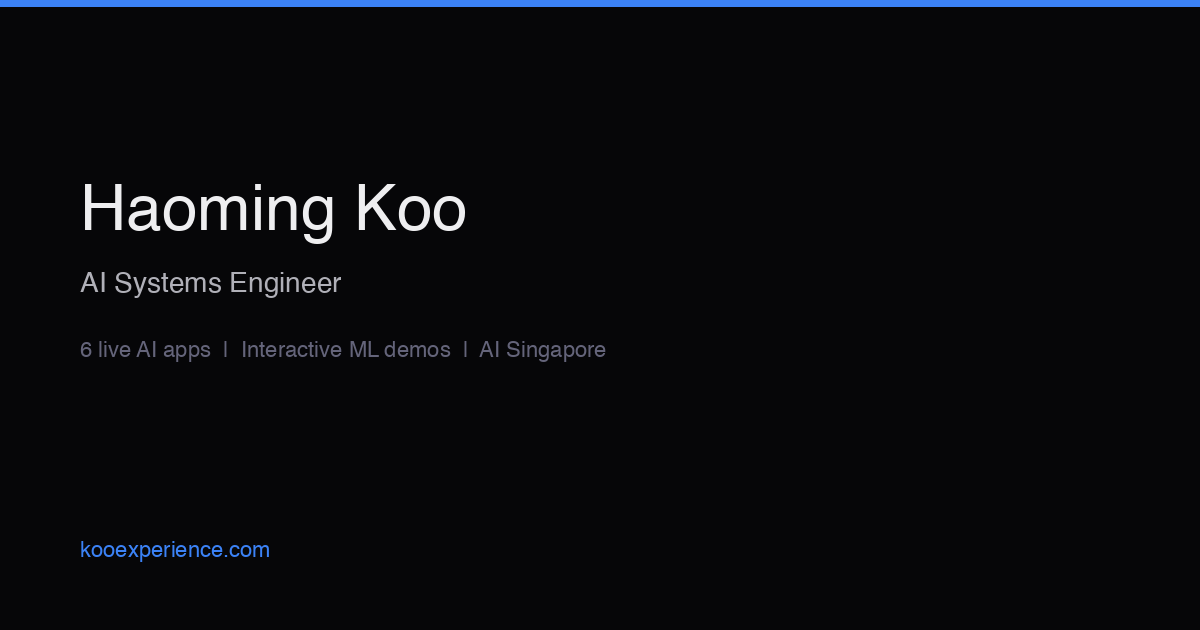
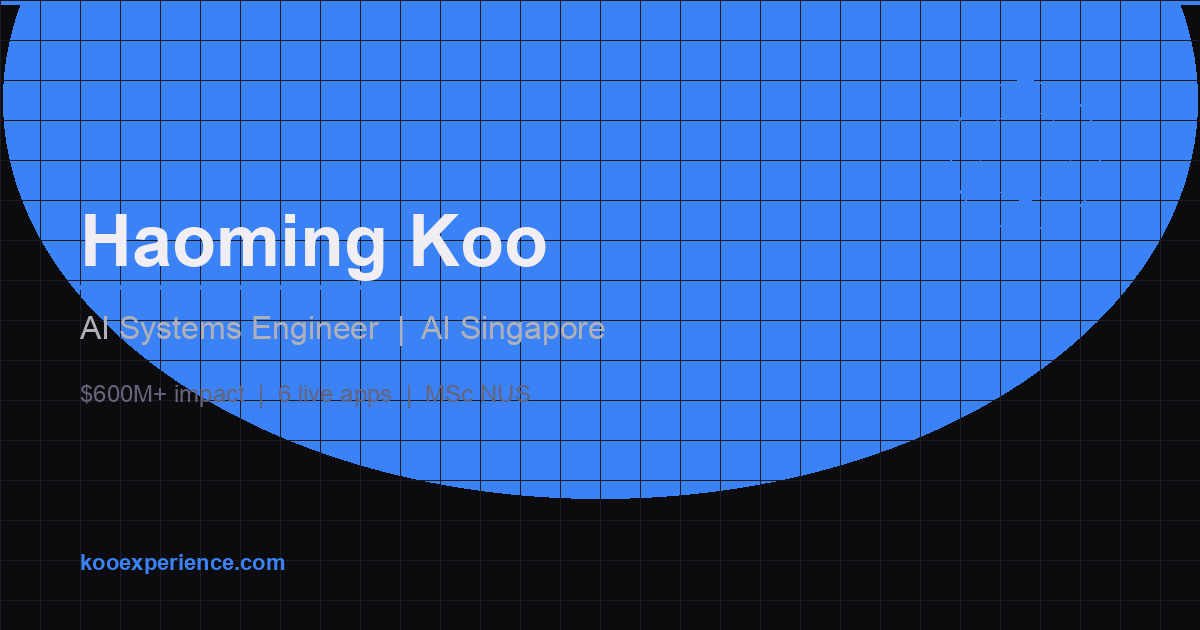
feat(seo): twitter cards, related posts, RSS links, robots meta
- Add twitter:card to 5 older blog posts
- Add Related Posts cross-links to all 8 blog posts
- Add RSS autodiscovery to blog index + all posts
- Add robots meta (max-image-preview:large) to older posts
- Remove wine.html redirect from sitemap
- Better og-image.png (v2)

diff --git a/blog/posts/trader-koo.html b/blog/posts/trader-koo.html
@@ -11,6 +11,11 @@
     <meta property="og:image" content="https://kooexperience.com/assets/og-image.png" />
     <meta property="og:site_name" content="Haoming Koo" />
     <meta property="og:locale" content="en_SG" />
+    <meta name="twitter:card" content="summary_large_image">
+    <meta name="twitter:title" content="How I Built an AI-Powered Stock Market Dashboard">
+    <meta name="twitter:description" content="A deep dive into Trader Koo: using YOLOv8 computer vision to detect chart patterns on S&P 500 stocks, combined with rule-based analysis and a FastAPI backend.">
+    <meta name="robots" content="index, follow, max-snippet:-1, max-image-preview:large">
+    <link rel="alternate" type="application/rss+xml" title="Haoming Koo Blog" href="https://kooexperience.com/feed.xml">
     <link rel="preconnect" href="https://fonts.googleapis.com" />
     <link rel="preconnect" href="https://fonts.gstatic.com" crossorigin />
     <link href="https://fonts.googleapis.com/css2?family=Inter:wght@300;400;500;600;700;800&display=swap" rel="stylesheet" />
@@ -610,6 +615,27 @@ price = ylim[0] + frac_y * (ylim[1] - ylim[0])</code></pre>
         </ul>
 
       </article>
+
+      <!-- Related Posts -->
+      <section class="section" style="padding:40px 0">
+        <div class="container">
+          <div style="font-size:12px;font-weight:700;color:var(--muted);text-transform:uppercase;letter-spacing:1.5px;margin-bottom:16px">Related Posts</div>
+          <div style="display:grid;grid-template-columns:repeat(auto-fit,minmax(250px,1fr));gap:12px">
+            <a href="hmm-regime.html" style="padding:16px;border-radius:12px;border:1px solid var(--border);background:var(--surface);text-decoration:none;color:inherit;transition:border-color .2s">
+              <div style="font-size:14px;font-weight:600;color:var(--text);margin-bottom:4px">HMM Market Regime Detection</div>
+              <div style="font-size:12px;color:var(--muted)">Hidden Markov Models for market volatility detection</div>
+            </a>
+            <a href="lionweather.html" style="padding:16px;border-radius:12px;border:1px solid var(--border);background:var(--surface);text-decoration:none;color:inherit;transition:border-color .2s">
+              <div style="font-size:14px;font-weight:600;color:var(--text);margin-bottom:4px">I Tried to Predict Singapore's Rain</div>
+              <div style="font-size:12px;color:var(--muted)">ML rainfall forecasting with LightGBM and SHAP</div>
+            </a>
+            <a href="photo-id-studio.html" style="padding:16px;border-radius:12px;border:1px solid var(--border);background:var(--surface);text-decoration:none;color:inherit;transition:border-color .2s">
+              <div style="font-size:14px;font-weight:600;color:var(--text);margin-bottom:4px">468 Facial Landmarks for Passport Photos</div>
+              <div style="font-size:12px;color:var(--muted)">MediaPipe face mesh for passport photo compliance</div>
+            </a>
+          </div>
+        </div>
+      </section>
 
       <footer>
         <a href="../../" style="color: var(--accent); text-decoration: none;">kooexperience.com</a>

diff --git a/blog/posts/llm-inference-theory.html b/blog/posts/llm-inference-theory.html
@@ -15,6 +15,11 @@
   <meta property="og:image" content="https://kooexperience.com/assets/og-image.png">
   <meta property="og:site_name" content="Haoming Koo">
   <meta property="og:locale" content="en_SG">
+  <meta name="twitter:card" content="summary_large_image">
+  <meta name="twitter:title" content="LLM Inference: The Theory You Need Before Deploying">
+  <meta name="twitter:description" content="How LLM inference works under the hood. Covers prefill/decode phases, VRAM math, KV cache sizing, quantization methods (GPTQ, AWQ, FP8), batching strategies, and the metrics that define serving performance.">
+  <meta name="robots" content="index, follow, max-snippet:-1, max-image-preview:large">
+  <link rel="alternate" type="application/rss+xml" title="Haoming Koo Blog" href="https://kooexperience.com/feed.xml">
   <link rel="preconnect" href="https://fonts.googleapis.com">
   <link rel="preconnect" href="https://fonts.gstatic.com" crossorigin>
   <link href="https://fonts.googleapis.com/css2?family=Inter:wght@400;500;600;700;800&family=JetBrains+Mono:wght@400;500;600&display=swap" rel="stylesheet">
@@ -1321,6 +1326,27 @@ Example: 100M tokens/day
         Most mature products use a hybrid: API for development, experimentation, and frontier model tasks.
         Self-hosted for high-volume production paths and fine-tuned models.
       </p>
+    </div>
+  </div>
+</section>
+
+<!-- Related Posts -->
+<section class="section" style="padding:40px 0">
+  <div class="container">
+    <div style="font-size:12px;font-weight:700;color:var(--muted);text-transform:uppercase;letter-spacing:1.5px;margin-bottom:16px">Related Posts</div>
+    <div style="display:grid;grid-template-columns:repeat(auto-fit,minmax(250px,1fr));gap:12px">
+      <a href="llm-gauntlet.html" style="padding:16px;border-radius:12px;border:1px solid var(--border);background:var(--surface);text-decoration:none;color:inherit;transition:border-color .2s">
+        <div style="font-size:14px;font-weight:600;color:var(--text);margin-bottom:4px">What I Learned from a Live LLM Serving Gauntlet</div>
+        <div style="font-size:12px;color:var(--muted)">19 engineers, 19 A100 GPUs, two hours of Locust fire</div>
+      </a>
+      <a href="dpo-demo.html" style="padding:16px;border-radius:12px;border:1px solid var(--border);background:var(--surface);text-decoration:none;color:inherit;transition:border-color .2s">
+        <div style="font-size:14px;font-weight:600;color:var(--text);margin-bottom:4px">DPO Interactive Demo</div>
+        <div style="font-size:12px;color:var(--muted)">Learn RLHF and DPO from scratch with interactive demos</div>
+      </a>
+      <a href="wmss-demo.html" style="padding:16px;border-radius:12px;border:1px solid var(--border);background:var(--surface);text-decoration:none;color:inherit;transition:border-color .2s">
+        <div style="font-size:14px;font-weight:600;color:var(--text);margin-bottom:4px">Visualizing Weak-Driven Learning (WMSS)</div>
+        <div style="font-size:12px;color:var(--muted)">Interactive walkthrough of gradient saturation and logit mixing</div>
+      </a>
     </div>
   </div>
 </section>

diff --git a/blog/posts/llm-gauntlet.html b/blog/posts/llm-gauntlet.html
@@ -15,6 +15,11 @@
   <meta property="og:image" content="https://kooexperience.com/assets/og-image.png">
   <meta property="og:site_name" content="Haoming Koo">
   <meta property="og:locale" content="en_SG">
+  <meta name="twitter:card" content="summary_large_image">
+  <meta name="twitter:title" content="What I Learned from a Live LLM Serving Gauntlet">
+  <meta name="twitter:description" content="19 engineers, 19 A100 GPUs, two hours of Locust fire. I tuned 40+ vLLM configurations and scraped peer metrics. Then someone with a 30-line cache proxy beat all of us.">
+  <meta name="robots" content="index, follow, max-snippet:-1, max-image-preview:large">
+  <link rel="alternate" type="application/rss+xml" title="Haoming Koo Blog" href="https://kooexperience.com/feed.xml">
   <link rel="preconnect" href="https://fonts.googleapis.com">
   <link rel="preconnect" href="https://fonts.gstatic.com" crossorigin>
   <link href="https://fonts.googleapis.com/css2?family=Inter:wght@300;400;500;600;700;800&family=JetBrains+Mono:wght@400;500&display=swap" rel="stylesheet">
@@ -985,6 +990,27 @@ footer{border-top:1px solid var(--border);padding:32px 0 40px;font-size:13px;col
 
     </article>
   </div>
+
+  <!-- Related Posts -->
+  <section class="section" style="padding:40px 0">
+    <div class="container">
+      <div style="font-size:12px;font-weight:700;color:var(--muted);text-transform:uppercase;letter-spacing:1.5px;margin-bottom:16px">Related Posts</div>
+      <div style="display:grid;grid-template-columns:repeat(auto-fit,minmax(250px,1fr));gap:12px">
+        <a href="llm-inference-theory.html" style="padding:16px;border-radius:12px;border:1px solid var(--border);background:var(--surface);text-decoration:none;color:inherit;transition:border-color .2s">
+          <div style="font-size:14px;font-weight:600;color:var(--text);margin-bottom:4px">LLM Inference: The Theory You Need</div>
+          <div style="font-size:12px;color:var(--muted)">Prefill vs decode, VRAM math, quantization methods</div>
+        </a>
+        <a href="dpo-demo.html" style="padding:16px;border-radius:12px;border:1px solid var(--border);background:var(--surface);text-decoration:none;color:inherit;transition:border-color .2s">
+          <div style="font-size:14px;font-weight:600;color:var(--text);margin-bottom:4px">DPO Interactive Demo</div>
+          <div style="font-size:12px;color:var(--muted)">Learn RLHF and DPO from scratch with interactive demos</div>
+        </a>
+        <a href="wmss-demo.html" style="padding:16px;border-radius:12px;border:1px solid var(--border);background:var(--surface);text-decoration:none;color:inherit;transition:border-color .2s">
+          <div style="font-size:14px;font-weight:600;color:var(--text);margin-bottom:4px">Visualizing Weak-Driven Learning (WMSS)</div>
+          <div style="font-size:12px;color:var(--muted)">Interactive walkthrough of gradient saturation and logit mixing</div>
+        </a>
+      </div>
+    </div>
+  </section>
 
   <footer>
     <div class="container">&copy; 2026 Haoming Koo</div>

diff --git a/blog/posts/photo-id-studio.html b/blog/posts/photo-id-studio.html
@@ -11,6 +11,11 @@
     <meta property="og:image" content="https://kooexperience.com/assets/og-image.png" />
     <meta property="og:site_name" content="Haoming Koo" />
     <meta property="og:locale" content="en_SG" />
+    <meta name="twitter:card" content="summary_large_image">
+    <meta name="twitter:title" content="How 468 Facial Landmarks Decide If You're Passport-Ready">
+    <meta name="twitter:description" content="Building Photo ID Studio: an AI-powered passport photo compliance checker using MediaPipe face mesh, rembg segmentation, and country-specific rules.">
+    <meta name="robots" content="index, follow, max-snippet:-1, max-image-preview:large">
+    <link rel="alternate" type="application/rss+xml" title="Haoming Koo Blog" href="https://kooexperience.com/feed.xml">
     <link rel="preconnect" href="https://fonts.googleapis.com" />
     <link rel="preconnect" href="https://fonts.gstatic.com" crossorigin />
     <link href="https://fonts.googleapis.com/css2?family=Inter:wght@300;400;500;600;700;800&display=swap" rel="stylesheet" />
@@ -1785,6 +1790,28 @@ SG:
         </ul>
 
       </article>
+
+      <!-- Related Posts -->
+      <section class="section" style="padding:40px 0">
+        <div class="container">
+          <div style="font-size:12px;font-weight:700;color:var(--muted);text-transform:uppercase;letter-spacing:1.5px;margin-bottom:16px">Related Posts</div>
+          <div style="display:grid;grid-template-columns:repeat(auto-fit,minmax(250px,1fr));gap:12px">
+            <a href="lionweather.html" style="padding:16px;border-radius:12px;border:1px solid var(--border);background:var(--surface);text-decoration:none;color:inherit;transition:border-color .2s">
+              <div style="font-size:14px;font-weight:600;color:var(--text);margin-bottom:4px">I Tried to Predict Singapore's Rain</div>
+              <div style="font-size:12px;color:var(--muted)">ML rainfall forecasting with LightGBM and SHAP</div>
+            </a>
+            <a href="trader-koo.html" style="padding:16px;border-radius:12px;border:1px solid var(--border);background:var(--surface);text-decoration:none;color:inherit;transition:border-color .2s">
+              <div style="font-size:14px;font-weight:600;color:var(--text);margin-bottom:4px">How I Built an AI Stock Market Dashboard</div>
+              <div style="font-size:12px;color:var(--muted)">YOLOv8 chart pattern detection on live S&P 500 data</div>
+            </a>
+            <a href="hmm-regime.html" style="padding:16px;border-radius:12px;border:1px solid var(--border);background:var(--surface);text-decoration:none;color:inherit;transition:border-color .2s">
+              <div style="font-size:14px;font-weight:600;color:var(--text);margin-bottom:4px">HMM Market Regime Detection</div>
+              <div style="font-size:12px;color:var(--muted)">Hidden Markov Models for market volatility detection</div>
+            </a>
+          </div>
+        </div>
+      </section>
+
       <footer>&copy; 2026 Haoming Koo</footer>
     </div>
     <script>

diff --git a/blog/posts/wmss-demo.html b/blog/posts/wmss-demo.html
@@ -18,6 +18,7 @@
   <meta name="twitter:card" content="summary_large_image" />
   <meta name="twitter:title" content="WMSS Interactive Demo — Weak-Driven Learning" />
   <meta name="twitter:description" content="Interactive visualization of WMSS: how weak agents make strong agents stronger." />
+  <link rel="alternate" type="application/rss+xml" title="Haoming Koo Blog" href="https://kooexperience.com/feed.xml">
   <link rel="preconnect" href="https://fonts.googleapis.com">
   <link href="https://fonts.googleapis.com/css2?family=Inter:wght@400;500;600;700;800&family=JetBrains+Mono:wght@400;500&display=swap" rel="stylesheet">
   <link rel="stylesheet" href="https://cdn.jsdelivr.net/npm/katex@0.16.11/dist/katex.min.css">
@@ -1980,6 +1981,27 @@ input[type="range"]::-webkit-slider-thumb:hover{box-shadow:0 0 0 6px var(--accen
     <div class="insight reveal reveal-d2" style="text-align:center;font-style:italic;border-left-color:var(--purple)">
       "The key to stronger models may lie in understanding their weaker selves."
       <div style="margin-top:4px;font-size:12px;font-style:normal;color:var(--muted)">- Chen et al. (2026)</div>
+    </div>
+  </div>
+</section>
+
+<!-- Related Posts -->
+<section class="section" style="padding:40px 0">
+  <div class="container">
+    <div style="font-size:12px;font-weight:700;color:var(--muted);text-transform:uppercase;letter-spacing:1.5px;margin-bottom:16px">Related Posts</div>
+    <div style="display:grid;grid-template-columns:repeat(auto-fit,minmax(250px,1fr));gap:12px">
+      <a href="dpo-demo.html" style="padding:16px;border-radius:12px;border:1px solid var(--border);background:var(--surface);text-decoration:none;color:inherit;transition:border-color .2s">
+        <div style="font-size:14px;font-weight:600;color:var(--text);margin-bottom:4px">DPO Interactive Demo</div>
+        <div style="font-size:12px;color:var(--muted)">Learn RLHF and DPO from scratch with interactive demos</div>
+      </a>
+      <a href="llm-inference-theory.html" style="padding:16px;border-radius:12px;border:1px solid var(--border);background:var(--surface);text-decoration:none;color:inherit;transition:border-color .2s">
+        <div style="font-size:14px;font-weight:600;color:var(--text);margin-bottom:4px">LLM Inference: The Theory You Need</div>
+        <div style="font-size:12px;color:var(--muted)">Prefill vs decode, VRAM math, quantization methods</div>
+      </a>
+      <a href="hmm-regime.html" style="padding:16px;border-radius:12px;border:1px solid var(--border);background:var(--surface);text-decoration:none;color:inherit;transition:border-color .2s">
+        <div style="font-size:14px;font-weight:600;color:var(--text);margin-bottom:4px">HMM Market Regime Detection</div>
+        <div style="font-size:12px;color:var(--muted)">Hidden Markov Models for market volatility detection</div>
+      </a>
     </div>
   </div>
 </section>

diff --git a/blog/posts/hmm-regime.html b/blog/posts/hmm-regime.html
@@ -18,6 +18,7 @@
   <meta name="twitter:card" content="summary_large_image" />
   <meta name="twitter:title" content="What Mood Is the Market In? - HMM Regime Detection" />
   <meta name="twitter:description" content="Interactive guide to Hidden Markov Models for stock market regime detection." />
+  <link rel="alternate" type="application/rss+xml" title="Haoming Koo Blog" href="https://kooexperience.com/feed.xml">
   <link rel="preconnect" href="https://fonts.googleapis.com">
   <link href="https://fonts.googleapis.com/css2?family=Inter:wght@400;500;600;700;800&family=JetBrains+Mono:wght@400;500&display=swap" rel="stylesheet">
   <link rel="stylesheet" href="https://cdn.jsdelivr.net/npm/katex@0.16.11/dist/katex.min.css">
@@ -857,6 +858,27 @@ code,.mono{font-family:"JetBrains Mono",monospace;font-size:0.88em}
       <strong>The key insight:</strong> The HMM does not tell you <em>what</em> to buy. It tells you what kind of environment you are operating in. Same stock, same signal, but the regime context changes how you interpret it and how you manage risk around it.
     </div>
 
+  </div>
+</section>
+
+<!-- Related Posts -->
+<section class="section" style="padding:40px 0">
+  <div class="container">
+    <div style="font-size:12px;font-weight:700;color:var(--muted);text-transform:uppercase;letter-spacing:1.5px;margin-bottom:16px">Related Posts</div>
+    <div style="display:grid;grid-template-columns:repeat(auto-fit,minmax(250px,1fr));gap:12px">
+      <a href="trader-koo.html" style="padding:16px;border-radius:12px;border:1px solid var(--border);background:var(--surface);text-decoration:none;color:inherit;transition:border-color .2s">
+        <div style="font-size:14px;font-weight:600;color:var(--text);margin-bottom:4px">How I Built an AI Stock Market Dashboard</div>
+        <div style="font-size:12px;color:var(--muted)">YOLOv8 chart pattern detection on live S&P 500 data</div>
+      </a>
+      <a href="wmss-demo.html" style="padding:16px;border-radius:12px;border:1px solid var(--border);background:var(--surface);text-decoration:none;color:inherit;transition:border-color .2s">
+        <div style="font-size:14px;font-weight:600;color:var(--text);margin-bottom:4px">Visualizing Weak-Driven Learning (WMSS)</div>
+        <div style="font-size:12px;color:var(--muted)">Interactive walkthrough of gradient saturation and logit mixing</div>
+      </a>
+      <a href="llm-inference-theory.html" style="padding:16px;border-radius:12px;border:1px solid var(--border);background:var(--surface);text-decoration:none;color:inherit;transition:border-color .2s">
+        <div style="font-size:14px;font-weight:600;color:var(--text);margin-bottom:4px">LLM Inference: The Theory You Need</div>
+        <div style="font-size:12px;color:var(--muted)">Prefill vs decode, VRAM math, quantization methods</div>
+      </a>
+    </div>
   </div>
 </section>
 

diff --git a/blog/posts/dpo-demo.html b/blog/posts/dpo-demo.html
@@ -18,6 +18,7 @@
   <meta name="twitter:card" content="summary_large_image" />
   <meta name="twitter:title" content="DPO Interactive Demo - Direct Preference Optimization" />
   <meta name="twitter:description" content="Align language models with human preferences using just a classification loss." />
+  <link rel="alternate" type="application/rss+xml" title="Haoming Koo Blog" href="https://kooexperience.com/feed.xml">
   <link rel="preconnect" href="https://fonts.googleapis.com">
   <link href="https://fonts.googleapis.com/css2?family=Inter:wght@400;500;600;700;800&family=JetBrains+Mono:wght@400;500&display=swap" rel="stylesheet">
   <link rel="stylesheet" href="https://cdn.jsdelivr.net/npm/katex@0.16.11/dist/katex.min.css">
@@ -2037,6 +2038,27 @@ input[type="range"]::-webkit-slider-thumb:hover{box-shadow:0 0 0 6px var(--accen
   </div>
 </section>
 
+
+<!-- Related Posts -->
+<section class="section" style="padding:40px 0">
+  <div class="container">
+    <div style="font-size:12px;font-weight:700;color:var(--muted);text-transform:uppercase;letter-spacing:1.5px;margin-bottom:16px">Related Posts</div>
+    <div style="display:grid;grid-template-columns:repeat(auto-fit,minmax(250px,1fr));gap:12px">
+      <a href="wmss-demo.html" style="padding:16px;border-radius:12px;border:1px solid var(--border);background:var(--surface);text-decoration:none;color:inherit;transition:border-color .2s">
+        <div style="font-size:14px;font-weight:600;color:var(--text);margin-bottom:4px">Visualizing Weak-Driven Learning (WMSS)</div>
+        <div style="font-size:12px;color:var(--muted)">Interactive walkthrough of gradient saturation and logit mixing</div>
+      </a>
+      <a href="llm-inference-theory.html" style="padding:16px;border-radius:12px;border:1px solid var(--border);background:var(--surface);text-decoration:none;color:inherit;transition:border-color .2s">
+        <div style="font-size:14px;font-weight:600;color:var(--text);margin-bottom:4px">LLM Inference: The Theory You Need</div>
+        <div style="font-size:12px;color:var(--muted)">Prefill vs decode, VRAM math, quantization methods</div>
+      </a>
+      <a href="llm-gauntlet.html" style="padding:16px;border-radius:12px;border:1px solid var(--border);background:var(--surface);text-decoration:none;color:inherit;transition:border-color .2s">
+        <div style="font-size:14px;font-weight:600;color:var(--text);margin-bottom:4px">What I Learned from a Live LLM Serving Gauntlet</div>
+        <div style="font-size:12px;color:var(--muted)">19 engineers, 19 A100 GPUs, two hours of Locust fire</div>
+      </a>
+    </div>
+  </div>
+</section>
 
 </main>
 

diff --git a/blog/posts/lionweather.html b/blog/posts/lionweather.html
@@ -11,6 +11,11 @@
     <meta property="og:image" content="https://kooexperience.com/assets/og-image.png" />
     <meta property="og:site_name" content="Haoming Koo" />
     <meta property="og:locale" content="en_SG" />
+    <meta name="twitter:card" content="summary_large_image">
+    <meta name="twitter:title" content="I Tried to Predict Singapore's Rain and It Humbled Me">
+    <meta name="twitter:description" content="Building LionWeather: a real-time weather dashboard with LightGBM rainfall forecasting, SHAP explainability, animated radar, and a whole lot of lessons about tropical weather.">
+    <meta name="robots" content="index, follow, max-snippet:-1, max-image-preview:large">
+    <link rel="alternate" type="application/rss+xml" title="Haoming Koo Blog" href="https://kooexperience.com/feed.xml">
     <link rel="preconnect" href="https://fonts.googleapis.com" />
     <link rel="preconnect" href="https://fonts.gstatic.com" crossorigin />
     <link href="https://fonts.googleapis.com/css2?family=Inter:wght@300;400;500;600;700;800&display=swap" rel="stylesheet" />
@@ -1305,6 +1310,24 @@ params = {
         </ul>
 
       </article>
+
+      <!-- Related Posts -->
+      <section class="section" style="padding:40px 0">
+        <div class="container">
+          <div style="font-size:12px;font-weight:700;color:var(--muted);text-transform:uppercase;letter-spacing:1.5px;margin-bottom:16px">Related Posts</div>
+          <div style="display:grid;grid-template-columns:repeat(auto-fit,minmax(250px,1fr));gap:12px">
+            <a href="trader-koo.html" style="padding:16px;border-radius:12px;border:1px solid var(--border);background:var(--surface);text-decoration:none;color:inherit;transition:border-color .2s">
+              <div style="font-size:14px;font-weight:600;color:var(--text);margin-bottom:4px">How I Built an AI Stock Market Dashboard</div>
+              <div style="font-size:12px;color:var(--muted)">YOLOv8 chart pattern detection on live S&P 500 data</div>
+            </a>
+            <a href="photo-id-studio.html" style="padding:16px;border-radius:12px;border:1px solid var(--border);background:var(--surface);text-decoration:none;color:inherit;transition:border-color .2s">
+              <div style="font-size:14px;font-weight:600;color:var(--text);margin-bottom:4px">468 Facial Landmarks for Passport Photos</div>
+              <div style="font-size:12px;color:var(--muted)">MediaPipe face mesh for passport photo compliance</div>
+            </a>
+          </div>
+        </div>
+      </section>
+
       <footer>&copy; 2026 Haoming Koo</footer>
     </div>
 

diff --git a/blog/index.html b/blog/index.html
@@ -15,6 +15,7 @@
     <meta property="og:image" content="https://kooexperience.com/assets/og-image.png" />
     <meta property="og:site_name" content="Haoming Koo" />
     <meta property="og:locale" content="en_SG" />
+    <link rel="alternate" type="application/rss+xml" title="Haoming Koo Blog" href="https://kooexperience.com/feed.xml">
     <!-- Fonts -->
     <link rel="preconnect" href="https://fonts.googleapis.com" />
     <link rel="preconnect" href="https://fonts.gstatic.com" crossorigin />
